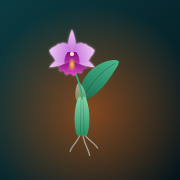
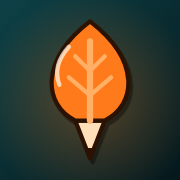
nuevo incio aluna

diff --git a/index.html b/index.html
@@ -541,11 +541,11 @@ body:not(.con-sesion) .nav-i.solo-sesion{display:none}
 
 /* ---------- Ploncitos-orquídea ---------- */
 .nw{display:grid;gap:10px}
-.nw-arriba{display:grid;grid-template-columns:minmax(0,1fr) auto;align-items:center;gap:6px 14px}
-.nw-orq{width:100%;max-width:200px;height:auto;max-height:215px;justify-self:center;overflow:visible;transition:opacity .25s,filter .25s}
-.nw-num{display:grid;justify-items:center;min-width:5.4rem;line-height:1}
-.nw-num b{font:600 clamp(2.4rem,9vw,3.2rem)/1 var(--display);color:var(--vc);letter-spacing:-.01em}
-.nw-num span{margin-top:6px;font:600 1rem var(--display);color:var(--vc);text-align:center}
+.nw-arriba{display:grid;grid-template-columns:auto minmax(0,1fr);align-items:center;justify-items:start;gap:4px 16px}
+.nw-orq{width:92px;height:auto;max-height:112px;overflow:visible;transition:opacity .25s,filter .25s}
+.nw-num{display:grid;justify-items:start;text-align:left;line-height:1}
+.nw-num b{font:600 2.3rem/1 var(--display);color:var(--vc);letter-spacing:-.01em}
+.nw-num span{margin-top:6px;font:600 1rem var(--display);color:var(--vc)}
 .nw-fino{display:grid;grid-template-columns:auto minmax(0,1fr) auto;align-items:center;gap:10px}
 .nw-rango{-webkit-appearance:none;appearance:none;width:100%;height:30px;margin:0;background:transparent;cursor:pointer}
 .nw-rango::-webkit-slider-runnable-track{height:6px;border-radius:6px;background:linear-gradient(90deg,var(--v1),var(--v2),var(--v3),var(--v4),var(--v5))}
@@ -553,9 +553,9 @@ body:not(.con-sesion) .nav-i.solo-sesion{display:none}
 .nw-rango::-moz-range-track{height:6px;border-radius:6px;background:linear-gradient(90deg,var(--v1),var(--v2),var(--v3),var(--v4),var(--v5))}
 .nw-rango::-moz-range-thumb{width:18px;height:18px;border-radius:50%;background:#fff;border:3px solid var(--vc);box-shadow:0 2px 8px rgba(0,0,0,.45)}
 .nw-et{display:grid;grid-template-columns:repeat(5,minmax(0,1fr));gap:6px}
-.nw-e{display:grid;justify-items:center;gap:2px;padding:6px 2px;border:1px solid var(--line);border-radius:14px;background:transparent;color:var(--ink-dim)}
-.nw-e svg{width:100%;height:54px;display:block}
-.nw-e small{font-size:.66rem;line-height:1.1;text-align:center}
+.nw-e{display:grid;justify-items:center;gap:1px;padding:4px 2px;border:1px solid var(--line);border-radius:14px;background:transparent;color:var(--ink-dim)}
+.nw-e svg{width:100%;height:34px;display:block}
+.nw-e small{font-size:.62rem;line-height:1.1;text-align:center}
 .nw-e:hover{border-color:var(--vc)}
 .nw-e[aria-pressed="true"]{border-color:var(--vc);color:var(--vc);background:rgba(255,154,60,.08)}
 .nw-vacio .nw-orq{opacity:.45;filter:saturate(.45)}
@@ -568,6 +568,30 @@ body:not(.con-sesion) .nav-i.solo-sesion{display:none}
 .viento-msg{position:absolute;left:0;right:0;top:64%;margin:0;text-align:center;font:300 1.05rem var(--display);color:var(--ink-dim);opacity:0;transition:opacity .6s}
 .viento-msg.on{opacity:1}
 @media(prefers-reduced-motion:reduce){.viento,.viento-msg{transition:none}.sem-card,.sem-f .ic{transition:none}}
+
+/* ---------- Logo: hoja-lápiz ---------- */
+.bv-centro{gap:0}
+.bv-logo{display:block;width:min(44vw,190px);height:auto;overflow:visible;filter:drop-shadow(6px 8px 0 rgba(0,0,0,.4)) drop-shadow(0 0 38px rgba(255,122,26,.28));animation:lgFlota 5s ease-in-out 2.4s infinite alternate}
+.lg-todo{transform-box:fill-box;transform-origin:50% 100%;animation:lgCrece 1.15s cubic-bezier(.2,.9,.3,1.18) .55s both}
+.lg-sem{opacity:0;transform-box:fill-box;transform-origin:50% 50%;animation:lgSem 1.05s ease-in-out both}
+.lg-vena{stroke-dasharray:1;animation:lgVena .7s ease-out 1.4s both}
+.lg-brillo{animation:lgFade .5s ease-out 1.85s both}
+.bv-letras{display:block;width:min(64vw,290px);height:auto;margin-top:12px;overflow:visible;filter:drop-shadow(4px 5px 0 rgba(0,0,0,.35))}
+.lg-rev{transform-box:fill-box;transform-origin:0 50%;animation:lgRev 1.3s cubic-bezier(.4,0,.2,1) 1.95s both}
+.bv-lema{margin:14px 0 0;font-size:.95rem;color:var(--ink-dim);animation:lgFade .9s ease-out 3.3s both}
+.bv-toca{animation-delay:3.7s}
+@keyframes lgCrece{0%{transform:scale(.04);opacity:0}18%{opacity:1}100%{transform:scale(1);opacity:1}}
+@keyframes lgSem{0%{opacity:0;transform:scale(.3)}35%{opacity:1;transform:scale(1)}70%{opacity:1;transform:scale(1.35)}100%{opacity:0;transform:scale(2.2)}}
+@keyframes lgVena{from{stroke-dashoffset:1}to{stroke-dashoffset:0}}
+@keyframes lgRev{from{transform:scaleX(0)}to{transform:scaleX(1)}}
+@keyframes lgFade{from{opacity:0}to{opacity:1}}
+@keyframes lgFlota{from{transform:translateY(0)}to{transform:translateY(-5px)}}
+@media(prefers-reduced-motion:reduce){.bv-logo,.lg-todo,.lg-sem,.lg-vena,.lg-brillo,.lg-rev,.bv-lema{animation:none!important}}
+.logo .mk{height:30px;width:auto;flex:none;filter:drop-shadow(2px 3px 0 rgba(0,0,0,.35))}
+.marca-c{display:flex;flex-direction:column;align-items:center;gap:8px;margin:2px 0 14px}
+.marca-c .mk,.marca-fila .mk{filter:drop-shadow(3px 4px 0 rgba(0,0,0,.35))}
+.marca-fila{display:flex;align-items:center;gap:12px}
+.mk{width:auto;display:block}.lt{height:auto;display:block}
 </style>
 </head>
 <body>
@@ -1327,7 +1351,7 @@ function nivel(nota) { return NIVELES[Math.max(1, Math.min(5, Math.floor(nota + 
 // Dibuja los 5 ploncitos. Cada uno se llena según lo que falte de la nota (ej: 4.7 = 4 llenos + uno al 70%).
 function plones(nota, clase) {
   const nv = nivel(nota);
-  let h = '<span class="plones ' + (clase || '') + '" style="--vc:' + nv.color + '" role="img" aria-label="' + nota.toFixed(1) + ' de 5 ploncitos">';
+  let h = '<span class="plones ' + (clase || '') + '" style="--vc:' + nv.color + '" role="img" aria-label="' + nota.toFixed(1) + ' de 5 florecitas">';
   for (let i = 0; i < 5; i++) {
     const f = Math.max(0, Math.min(1, nota - i));
     h += '<span class="pl"><svg class="pl-off" viewBox="0 0 24 24"><use href="#plon"/></svg>' +
@@ -1589,7 +1613,7 @@ function pintarGrid() {
 
 /* ---------- Bienvenida ---------- */
 // Tiempo máximo en la bienvenida: si no se toca la pantalla, entra sola.
-const DURACION_BIENVENIDA = 6500;
+const DURACION_BIENVENIDA = 5800;
 // Al abrir o refrescar siempre sale la bienvenida; después se va a la pantalla donde estabas.
 const hashInicial = location.hash.slice(1);
 let bvPendiente = true, bvDestino = hashInicial;
@@ -1597,6 +1621,13 @@ let bvPendiente = true, bvDestino = hashInicial;
 let recuperando = /(^|&)type=recovery(&|$)/.test(hashInicial), avisoLink = '';
 if (recuperando) bvDestino = 'nueva-clave';
 else if (/(^|&)error(_code|_description)?=/.test(hashInicial)) { avisoLink = 'Ese link ya venció o ya se usó. Pide uno nuevo.'; bvDestino = 'olvide'; }
+/* ---------- Logo de Aluna: hoja que termina en punta de lápiz ---------- */
+const LOGO_MARCA = "<path d=\"M172 300H228L200 372Z\" fill=\"#ffe0b8\" stroke=\"#2b1203\" stroke-width=\"8\" stroke-linejoin=\"round\" stroke-linecap=\"round\"/><path d=\"M189 352L200 372L211 352Z\" fill=\"#2b1203\"/><path d=\"M172 300C112 270 104 186 200 112C296 186 288 270 228 300Z\" fill=\"#ff7a1a\" stroke=\"#2b1203\" stroke-width=\"8\" stroke-linejoin=\"round\" stroke-linecap=\"round\"/><path class=\"lg-vena\" pathLength=\"1\" d=\"M200 300V150\" stroke=\"#ffb066\" stroke-width=\"12\" stroke-linecap=\"round\" fill=\"none\"/><path class=\"lg-vena\" pathLength=\"1\" d=\"M200 252L160 218M200 252L240 218M200 206L172 178M200 206L228 178\" stroke=\"#ffb066\" stroke-width=\"8\" stroke-linecap=\"round\" fill=\"none\"/><path class=\"lg-brillo\" d=\"M142 232C132 206 140 182 160 160\" stroke=\"#fff4e2\" stroke-width=\"8\" stroke-linecap=\"round\" fill=\"none\" opacity=\".75\"/>";
+const LOGO_LETRAS = "M168.1 30.5L166.2 29.9L162.4 30.1L157.0 33.4L150.8 40.2L143.4 51.8L142.6 51.0L143.5 35.9L142.8 33.8L140.8 31.9L137.9 31.1L135.2 32.1L133.4 34.2L132.1 38.5L131.5 45.5L131.5 63.8L132.9 77.0L134.1 80.2L135.8 82.0L138.1 82.9L140.4 82.8L143.4 80.6L147.6 67.9L153.8 54.4L159.9 45.4L161.2 44.0L162.2 43.8L163.4 45.9L163.9 61.2L164.9 69.4L166.8 77.8L169.2 82.5L172.0 84.6L175.8 84.6L177.9 83.0L178.8 78.9L175.6 66.5L174.2 41.0L171.4 33.5ZM119.6 30.2L117.0 29.4L114.5 29.8L112.9 30.8L111.1 33.1L108.6 45.8L105.5 56.1L99.8 68.0L97.2 71.2L94.5 73.2L92.6 73.0L91.2 71.5L89.5 65.2L89.5 49.6L91.4 37.8L91.1 35.4L89.2 32.5L86.6 31.5L83.5 32.1L81.6 33.8L79.8 38.0L78.1 47.2L77.6 54.8L77.9 65.2L78.9 71.0L81.0 76.6L84.1 81.1L86.6 83.1L91.6 84.9L95.4 84.8L98.9 83.5L102.0 81.5L105.5 78.1L111.5 69.1L112.5 69.6L113.9 74.9L116.0 79.4L118.2 82.1L120.5 83.6L122.9 84.0L124.9 83.5L127.0 81.6L127.5 80.4L127.4 77.6L123.6 68.6L121.8 59.2L121.5 47.8L122.4 34.9L121.4 32.0ZM42.1 30.0L37.0 28.2L31.9 28.1L23.1 30.2L13.4 35.8L8.5 39.6L3.6 44.8L2.8 46.8L2.9 49.5L4.4 51.6L7.6 52.8L11.0 51.1L18.0 45.0L22.5 41.9L29.2 38.6L32.0 38.0L35.2 38.4L37.1 40.5L37.8 43.6L37.4 50.4L36.2 53.0L31.6 52.0L25.6 52.0L18.1 54.2L10.5 59.0L4.8 65.1L0.8 72.9L0.0 76.8L0.0 80.2L1.8 85.8L4.0 88.5L6.1 90.0L10.0 91.2L14.4 91.4L18.4 90.6L23.8 88.2L28.0 85.5L31.8 82.2L39.8 72.2L40.9 73.0L42.0 77.5L44.6 83.6L47.2 86.8L49.0 87.9L51.8 88.2L53.9 87.5L55.4 86.0L56.0 84.1L55.9 82.4L51.8 72.5L49.6 63.9L48.9 54.4L49.0 44.4L48.4 39.5L46.0 33.6ZM33.5 62.2L33.5 63.2L30.4 68.8L27.9 72.1L23.8 76.2L20.5 78.6L17.2 80.0L14.5 80.5L11.9 79.2L11.4 76.0L12.5 72.5L15.2 68.5L18.9 65.1L22.6 62.9L28.6 61.1L31.6 61.2ZM187.0 41.5L184.8 44.5L184.5 47.1L185.0 48.8L186.1 50.0L188.6 50.9L192.4 50.0L203.2 42.0L210.5 38.6L213.6 37.9L217.1 38.0L218.9 39.4L219.8 41.9L219.6 49.4L219.2 51.9L218.5 52.9L210.9 51.5L204.2 52.2L198.8 54.2L194.6 56.5L190.6 59.6L187.6 62.9L184.1 69.5L183.1 75.9L185.0 82.4L188.5 86.2L191.1 87.8L196.4 88.9L200.9 88.6L205.5 87.5L210.5 84.9L214.6 81.6L218.1 77.9L221.4 73.1L222.4 72.8L226.4 82.9L228.9 86.8L231.4 89.2L234.1 90.8L236.6 90.9L239.0 90.0L240.8 88.4L241.8 85.8L241.5 83.2L240.6 81.8L237.5 79.5L235.8 77.2L232.5 68.2L231.0 57.2L230.6 39.8L229.4 35.6L226.6 31.5L223.1 29.1L219.4 28.0L215.2 27.8L207.8 29.0L198.1 33.1L191.6 37.5ZM215.8 62.1L215.6 63.9L212.1 69.6L206.2 75.6L202.0 78.0L199.0 78.8L196.9 78.5L194.9 76.9L194.2 75.2L194.6 72.1L197.4 67.5L201.0 64.2L205.5 62.0L209.6 60.9L213.5 60.9ZM66.2 0.0L63.1 1.2L61.2 3.8L58.9 12.6L56.9 29.6L56.9 49.5L57.9 60.5L60.9 75.9L63.5 83.2L65.5 86.5L67.9 88.4L70.1 88.8L72.8 87.8L74.5 84.9L74.4 81.6L72.5 76.1L70.5 66.2L68.9 49.5L69.4 25.9L72.0 5.0L71.5 3.0L70.2 1.2L68.0 0.1Z";
+const LOGO_DEFS = '<symbol id="aluna-mark" viewBox="92 100 216 284">' + LOGO_MARCA + '</symbol><symbol id="aluna-letras" viewBox="-4 -4 250 100"><path d="' + LOGO_LETRAS + '" fill="#f6f1e6" fill-rule="evenodd"/></symbol>';
+const marcaMini = h => '<svg class="mk" style="height:' + h + 'px" viewBox="0 0 216 284" aria-hidden="true"><use href="#aluna-mark" width="216" height="284"/></svg>';
+const letrasMini = w => '<svg class="lt" style="width:' + w + 'px" viewBox="0 0 250 100" aria-hidden="true"><use href="#aluna-letras" width="250" height="100"/></svg>';
+
 /* ---------- La orquídea (Cattleya trianae): una hoja carnosa, vaina, flor que se abre ---------- */
 const AQ_DEFS =
   '<filter id="aqGl" x="-60%" y="-60%" width="220%" height="220%"><feGaussianBlur stdDeviation="3.2" result="b"/><feMerge><feMergeNode in="b"/><feMergeNode in="SourceGraphic"/></feMerge></filter>' +
@@ -1706,8 +1737,9 @@ function vistaBienvenida() {
     '<div class="bv-fondo" aria-hidden="true"><span class="bv-g bv-g1"></span><span class="bv-g bv-g2"></span><span class="bv-g bv-g3"></span></div>' +
     '<canvas class="bv-polvo" aria-hidden="true"></canvas>' +
     '<h1 class="vh">Aluna. Tu lugar para sembrar ideas</h1>' +
-    '<div class="bv-centro"><svg class="bv-orq" viewBox="-90 -180 180 215" aria-hidden="true"><g class="bv-g-orq"></g></svg>' +
-    '<div class="bv-marca"><span class="bv-nombre">Aluna</span><span class="bv-lema">tu lugar para sembrar ideas</span></div></div>' +
+    '<div class="bv-centro"><svg class="bv-logo" viewBox="92 100 216 284" aria-hidden="true"><circle class="lg-sem" cx="200" cy="356" r="13" fill="#ff9a3c"/><g class="lg-todo">' + LOGO_MARCA + '</g></svg>' +
+    '<svg class="bv-letras" viewBox="-4 -4 250 100" aria-hidden="true"><defs><clipPath id="lgRev"><rect class="lg-rev" x="-4" y="-4" width="250" height="100"/></clipPath></defs><g clip-path="url(#lgRev)"><path d="' + LOGO_LETRAS + '" fill="#f6f1e6" fill-rule="evenodd"/></g></svg>' +
+    '<p class="bv-lema">tu lugar para sembrar ideas</p></div>' +
     '<p class="bv-toca" aria-hidden="true">Toca para entrar</p>' +
     '<div class="bv-carga" aria-hidden="true" style="--dur:' + (DURACION_BIENVENIDA / 1000) + 's"></div></section>';
 }
@@ -1731,15 +1763,13 @@ function iniciarBienvenida() {
   const sec = document.querySelector('.bienvenida'); if (!sec) return;
   bvTimer = setTimeout(entrarApp, DURACION_BIENVENIDA);
   try { sec.focus({ preventScroll: true }); } catch (e) {}
-  const g = sec.querySelector('.bv-g-orq'); if (!g) return;
-  if (reducido() || !window.requestAnimationFrame) { g.innerHTML = orq(5); sec.classList.add('marca'); return; }
+  if (reducido() || !window.requestAnimationFrame) return;
   try {
-    const cv = sec.querySelector('canvas.bv-polvo'), svg = sec.querySelector('.bv-orq');
-    const ctx = cv && cv.getContext && cv.getContext('2d');
+    const cv = sec.querySelector('canvas.bv-polvo');
+    const ctx = cv && cv.getContext && cv.getContext('2d'); if (!ctx) return;
     const dpr = Math.min(window.devicePixelRatio || 1, 1.5);
     let W = 0, H = 0;
     const medir = function () {
-      if (!ctx) return;
       W = cv.clientWidth || window.innerWidth; H = cv.clientHeight || window.innerHeight;
       cv.width = Math.round(W * dpr); cv.height = Math.round(H * dpr);
       ctx.setTransform(dpr, 0, 0, dpr, 0, 0);
@@ -1748,20 +1778,11 @@ function iniciarBienvenida() {
     bvLimpiar = function () { window.removeEventListener('resize', medir); };
     const R = function (a, b) { return a + Math.random() * (b - a); };
     const motas = [];
-    for (let i = 0; i < 36; i++) motas.push({ x: Math.random(), y: Math.random(), r: R(.6, 1.9), vy: R(5, 15), vx: R(-3, 6), f: R(0, 6.28), n: Math.random() < .6 });
-    const polvo = [];
-    const T0 = performance.now(), INI = 400, DUR = 4200;
-    let ult = T0, vPint = -1, tPint = 0, marca = false;
-    g.innerHTML = orq(1);
+    for (let i = 0; i < 40; i++) motas.push({ x: Math.random(), y: Math.random(), r: R(.6, 2), vy: R(5, 16), vx: R(-3, 6), f: R(0, 6.28), n: Math.random() < .65 });
+    let ult = performance.now();
     function cuadro(ahora) {
       bvRaf = requestAnimationFrame(cuadro);
-      const t = ahora - T0, dt = Math.min(.05, (ahora - ult) / 1000); ult = ahora;
-      const k = Math.min(1, Math.max(0, (t - INI) / DUR));
-      const e = k < .5 ? 2 * k * k : 1 - Math.pow(-2 * k + 2, 2) / 2;
-      const v = 1 + 4 * e;
-      if (Math.abs(v - vPint) > .012 && ahora - tPint > 30) { g.innerHTML = orq(v); vPint = v; tPint = ahora; }
-      if (!marca && t > 3000) { marca = true; sec.classList.add('marca'); }
-      if (!ctx) return;
+      const dt = Math.min(.05, (ahora - ult) / 1000); ult = ahora;
       ctx.clearRect(0, 0, W, H);
       motas.forEach(function (m) {
         m.y -= m.vy * dt / H; m.x += m.vx * dt / W;
@@ -1771,28 +1792,16 @@ function iniciarBienvenida() {
         ctx.fillStyle = m.n ? '#ffb066' : '#bfe9e0';
         ctx.beginPath(); ctx.arc(m.x * W, m.y * H, m.r, 0, 6.2832); ctx.fill();
       });
-      if (v > 4.55 && polvo.length < 140 && svg) {
-        const r = svg.getBoundingClientRect(), ox = r.left + (75 / 180) * r.width, oy = r.top + (62 / 215) * r.height;
-        for (let i = 0; i < 2; i++) polvo.push({ x: ox + R(-16, 16), y: oy + R(-12, 12), vx: R(18, 52), vy: -R(4, 26), vida: R(1.4, 2.6), e: 0, r: R(.8, 1.7), c: ['#f3c4f6', '#e24cc2', '#ffb066', '#ffe9c2'][Math.floor(Math.random() * 4)] });
-      }
-      for (let i = polvo.length - 1; i >= 0; i--) {
-        const p = polvo[i]; p.e += dt;
-        if (p.e > p.vida) { polvo.splice(i, 1); continue; }
-        p.vx += 34 * dt; p.x += p.vx * dt; p.y += (p.vy + Math.sin(p.e * 5 + p.x * .02) * 12) * dt;
-        ctx.globalAlpha = .85 * (1 - p.e / p.vida); ctx.fillStyle = p.c;
-        ctx.beginPath(); ctx.arc(p.x, p.y, p.r, 0, 6.2832); ctx.fill();
-      }
       ctx.globalAlpha = 1;
     }
     bvRaf = requestAnimationFrame(cuadro);
-  } catch (e) { g.innerHTML = orq(5); sec.classList.add('marca'); }
+  } catch (e) { /* sin polvo, la bienvenida sigue */ }
 }
 
-
 /* =====================================================================
-   ALUNA: sembrar (diario), ploncitos-orquídea y el viento
+   ALUNA: sembrar (diario), florecitas-orquídea y el viento
    ===================================================================== */
-// Lo que se puede sembrar. "nota" = pregunta por los ploncitos desde el principio.
+// Lo que se puede sembrar. "nota" = pregunta por las florecitas desde el principio.
 const TIPOS = [
   { id: 'dia', nombre: 'Mi día', desc: 'El resumen del día completo', ask: '¿Cómo te fue <b>hoy</b>?', ph: 'Cuéntalo como si se lo contaras a alguien de confianza…', nota: true },
   { id: 'idea', nombre: 'Idea', desc: 'Algo que se te ocurrió', ask: '¿Qué pensamiento vas a <b>sembrar</b> hoy?', ph: 'Escríbelo antes de que se vaya…' },
@@ -1848,18 +1857,18 @@ const SQL_SEMILLAS =
   'grant select on public.semillas to anon;\n' +
   'grant select, insert, update, delete on public.semillas to authenticated;';
 
-/* ---------- Ploncitos-orquídea: el widget para poner la nota ---------- */
+/* ---------- Florecitas-orquídea: el widget para poner la nota ---------- */
 const VB_ETAPA = [null, '-26 -36 52 44', '-46 -84 92 92', '-80 -150 160 160', '-90 -180 180 215', '-90 -180 180 215'];
 function notaWHTML(n, pfx) {
   const vacio = n == null, v = vacio ? 3 : n, nv = nivel(v), act = Math.floor(v + 1e-9);
   return '<div class="nw' + (vacio ? ' nw-vacio' : '') + '" id="' + pfx + '-nw" data-v="' + v + '" style="--vc:' + nv.color + '">' +
     '<div class="nw-arriba"><svg class="nw-orq" viewBox="-90 -180 180 215" aria-hidden="true"><g>' + orq(v) + '</g></svg>' +
-    '<div class="nw-num" role="status" aria-live="polite"><b>' + (vacio ? '–' : v.toFixed(1)) + '</b><span>' + (vacio ? 'sin ploncitos' : nv.nombre) + '</span></div></div>' +
+    '<div class="nw-num" role="status" aria-live="polite"><b>' + (vacio ? '–' : v.toFixed(1)) + '</b><span>' + (vacio ? 'sin florecitas' : nv.nombre) + '</span></div></div>' +
     '<div class="nw-fino"><button type="button" class="nota-aj" data-action="' + pfx + '-nota-menos" aria-label="Bajar 0.1">−</button>' +
-    '<input type="range" class="nw-rango" data-pfx="' + pfx + '" min="1" max="5" step="0.1" value="' + v + '" aria-label="Ploncitos, de 1 a 5">' +
+    '<input type="range" class="nw-rango" data-pfx="' + pfx + '" min="1" max="5" step="0.1" value="' + v + '" aria-label="Florecitas, de 1 a 5">' +
     '<button type="button" class="nota-aj" data-action="' + pfx + '-nota-mas" aria-label="Subir 0.1">+</button></div>' +
     '<div class="nw-et" role="group" aria-label="Etapas de la orquídea">' + [1, 2, 3, 4, 5].map(function (i) {
-      return '<button type="button" class="nw-e" data-action="' + pfx + '-nota-set" data-n="' + i + '" aria-pressed="' + (!vacio && act === i) + '" style="--vc:' + NIVELES[i].color + '" aria-label="Poner ' + i + (i === 1 ? ' ploncito' : ' ploncitos') + ', ' + NIVELES[i].nombre + '">' +
+      return '<button type="button" class="nw-e" data-action="' + pfx + '-nota-set" data-n="' + i + '" aria-pressed="' + (!vacio && act === i) + '" style="--vc:' + NIVELES[i].color + '" aria-label="Poner ' + i + (i === 1 ? ' florecita' : ' florecitas') + ', ' + NIVELES[i].nombre + '">' +
         '<svg viewBox="' + VB_ETAPA[i] + '" aria-hidden="true">' + orq(i, { sinBrillo: true }) + '</svg><small>' + NIVELES[i].nombre + '</small></button>';
     }).join('') + '</div></div>';
 }
@@ -1869,7 +1878,7 @@ function pintarNW(pfx, n, animar) {
   el.classList.toggle('nw-vacio', vacio);
   el.style.setProperty('--vc', nv.color);
   el.querySelector('.nw-num b').textContent = vacio ? '–' : v.toFixed(1);
-  el.querySelector('.nw-num span').textContent = vacio ? 'sin ploncitos' : nv.nombre;
+  el.querySelector('.nw-num span').textContent = vacio ? 'sin florecitas' : nv.nombre;
   const rg = el.querySelector('.nw-rango'); if (rg && parseFloat(rg.value) !== v) rg.value = v;
   el.querySelectorAll('.nw-e').forEach(function (b, i) { b.setAttribute('aria-pressed', String(!vacio && act === i + 1)); });
   const g = el.querySelector('.nw-orq g'); if (!g) return;
@@ -2122,10 +2131,10 @@ function visSemHTML() {
 function notaSecHTML() {
   const s = estado.sem, t = tipoDe(s.tipo);
   if (t.nota) {
-    return '<h2 class="mod-t">¿Cuántos <b class="resalta">ploncitos</b> le das a tu día?' + (s.nota != null ? ' <button type="button" class="link-b" data-action="sem-nota-quitar">Quitar</button>' : '') + '</h2>' + notaWHTML(s.nota, 'sem');
+    return '<h2 class="mod-t">¿Cuántas <b class="resalta">florecitas</b> le das a tu día?' + (s.nota != null ? ' <button type="button" class="link-b" data-action="sem-nota-quitar">Quitar</button>' : '') + '</h2>' + notaWHTML(s.nota, 'sem');
   }
-  if (!s.abierta) return '<button type="button" class="btn" data-action="sem-nota-abrir">+ Ponerle ploncitos</button>';
-  return '<h2 class="mod-t">Ploncitos <button type="button" class="link-b" data-action="sem-nota-quitar">Quitar</button></h2>' + notaWHTML(s.nota, 'sem');
+  if (!s.abierta) return '<button type="button" class="btn" data-action="sem-nota-abrir">+ Ponerle florecitas</button>';
+  return '<h2 class="mod-t">Florecitas <button type="button" class="link-b" data-action="sem-nota-quitar">Quitar</button></h2>' + notaWHTML(s.nota, 'sem');
 }
 function pintarSecNota() { const e = $('#s-nota'); if (e) e.innerHTML = notaSecHTML(); }
 function cambiarNotaSem(n, directo) {
@@ -2212,7 +2221,7 @@ function vistaCartelera() {
     .map(t => '<button class="tab" role="tab" aria-selected="' + (estado.cat === t.id) + '" data-action="filtro" data-cat="' + t.id + '">' + t.nombre + '<small>' + t.n + '</small></button>').join('');
   const op = (v, t) => '<option value="' + v + '"' + (estado.orden === v ? ' selected' : '') + '>' + t + '</option>';
   return '<h1 class="vh">Cartelera</h1>' +
-    '<header class="cab"><span class="logo"><i class="rayitas"></i>Cartelera</span>' +
+    '<header class="cab"><span class="logo">' + marcaMini(30) + 'Cartelera</span>' +
     '<span class="cuenta">' + n + ' reseña' + (n === 1 ? '' : 's') + (estado.sesion ? '' : ' · <a class="sub-l" href="#entrar">Entrar</a>') + '</span></header>' +
     (estado.sinConexion && estado.items.length ? '<div class="aviso"><span>Sin conexión. Estás viendo la última copia guardada en este aparato.</span><button class="btn" data-action="reintentar">Reintentar</button></div>' : '') +
     '<div id="borradores">' + borradoresHTML() + '</div>' +
@@ -2527,6 +2536,7 @@ function vistaTop() {
 /* ---------- Entrar y Ajustes ---------- */
 function vistaEntrar() {
   return '<a class="volver" href="#inicio"><svg class="ic" viewBox="0 0 24 24" aria-hidden="true"><path d="M15 5l-7 7 7 7"/></svg>Volver</a>' +
+    '<div class="marca-c">' + marcaMini(64) + letrasMini(150) + '</div>' +
     '<h1 class="pag">Entrar</h1>' +
     '<form id="flogin" class="form" novalidate>' +
       '<p class="ayuda">Solo el dueño de Aluna puede agregar y editar reseñas.</p>' +
@@ -2592,7 +2602,7 @@ function vistaAjustes() {
     ? '<div class="ajuste"><h2>Diario en la nube</h2><p>Para guardar tus semillas en la nube (y verlas desde el celular y el PC), pega esto una sola vez en Supabase: <b>SQL Editor → New query → pegar → Run</b>. Después recarga la app.</p>' +
       '<pre class="sql" id="sql-sem">' + esc(SQL_SEMILLAS) + '</pre><button class="btn" data-action="copiar-sql" data-sql="sem">Copiar el SQL</button></div>'
     : '';
-  const acerca = '<div class="ajuste"><h2>Qué significa Aluna</h2>' +
+  const acerca = '<div class="ajuste"><div class="marca-fila">' + marcaMini(46) + letrasMini(120) + '</div><h2>Qué significa Aluna</h2>' +
     '<p>Aluna es una palabra del pueblo kogui, de la Sierra Nevada de Santa Marta, en Colombia. Se suele explicar como el mundo del pensamiento, del espíritu y de la memoria: lo que existe antes de volverse realidad.</p>' +
     '<p>Aquí se usa con respeto, por la idea de sembrar pensamiento. Esta app no explica ni representa su significado completo, porque no es nuestro para explicarlo. Si te da curiosidad, busca lo que cuentan los propios pueblos de la Sierra.</p></div>';
   return '<h1 class="pag">Ajustes</h1>' + cuenta + migrar + borr + diarioAj + respaldo + acerca;
@@ -3550,7 +3560,7 @@ window.addEventListener('pagehide', function () { if (estado.ed && estado.ed.toc
    8. ARRANQUE
    ===================================================================== */
 (async function iniciar() {
-  const dfs = document.getElementById('aq-defs'); if (dfs) dfs.innerHTML = AQ_DEFS;
+  const dfs = document.getElementById('aq-defs'); if (dfs) dfs.innerHTML = AQ_DEFS + LOGO_DEFS;
   await Copia.abrir();
   const hay = iniciarCliente();
   render(false);

diff --git a/sw.js b/sw.js
@@ -1,6 +1,6 @@
 // Service worker: deja la app funcionar sin internet.
 // Si cambias index.html y no ves el cambio, sube el número de VERSION.
-const VERSION = 'aluna-v9';
+const VERSION = 'aluna-v10';
 const BASE = ['./', 'index.html', 'manifest.webmanifest', 'icon-192.png', 'icon-512.png', 'favicon.svg', 'apple-touch-icon.png', 'fonts/inter-latin-wght-normal.woff2', 'fonts/outfit-latin-wght-normal.woff2', 'fonts/newsreader-latin-wght-normal.woff2', 'fonts/newsreader-latin-wght-italic.woff2'];
 
 self.addEventListener('install', e => {
